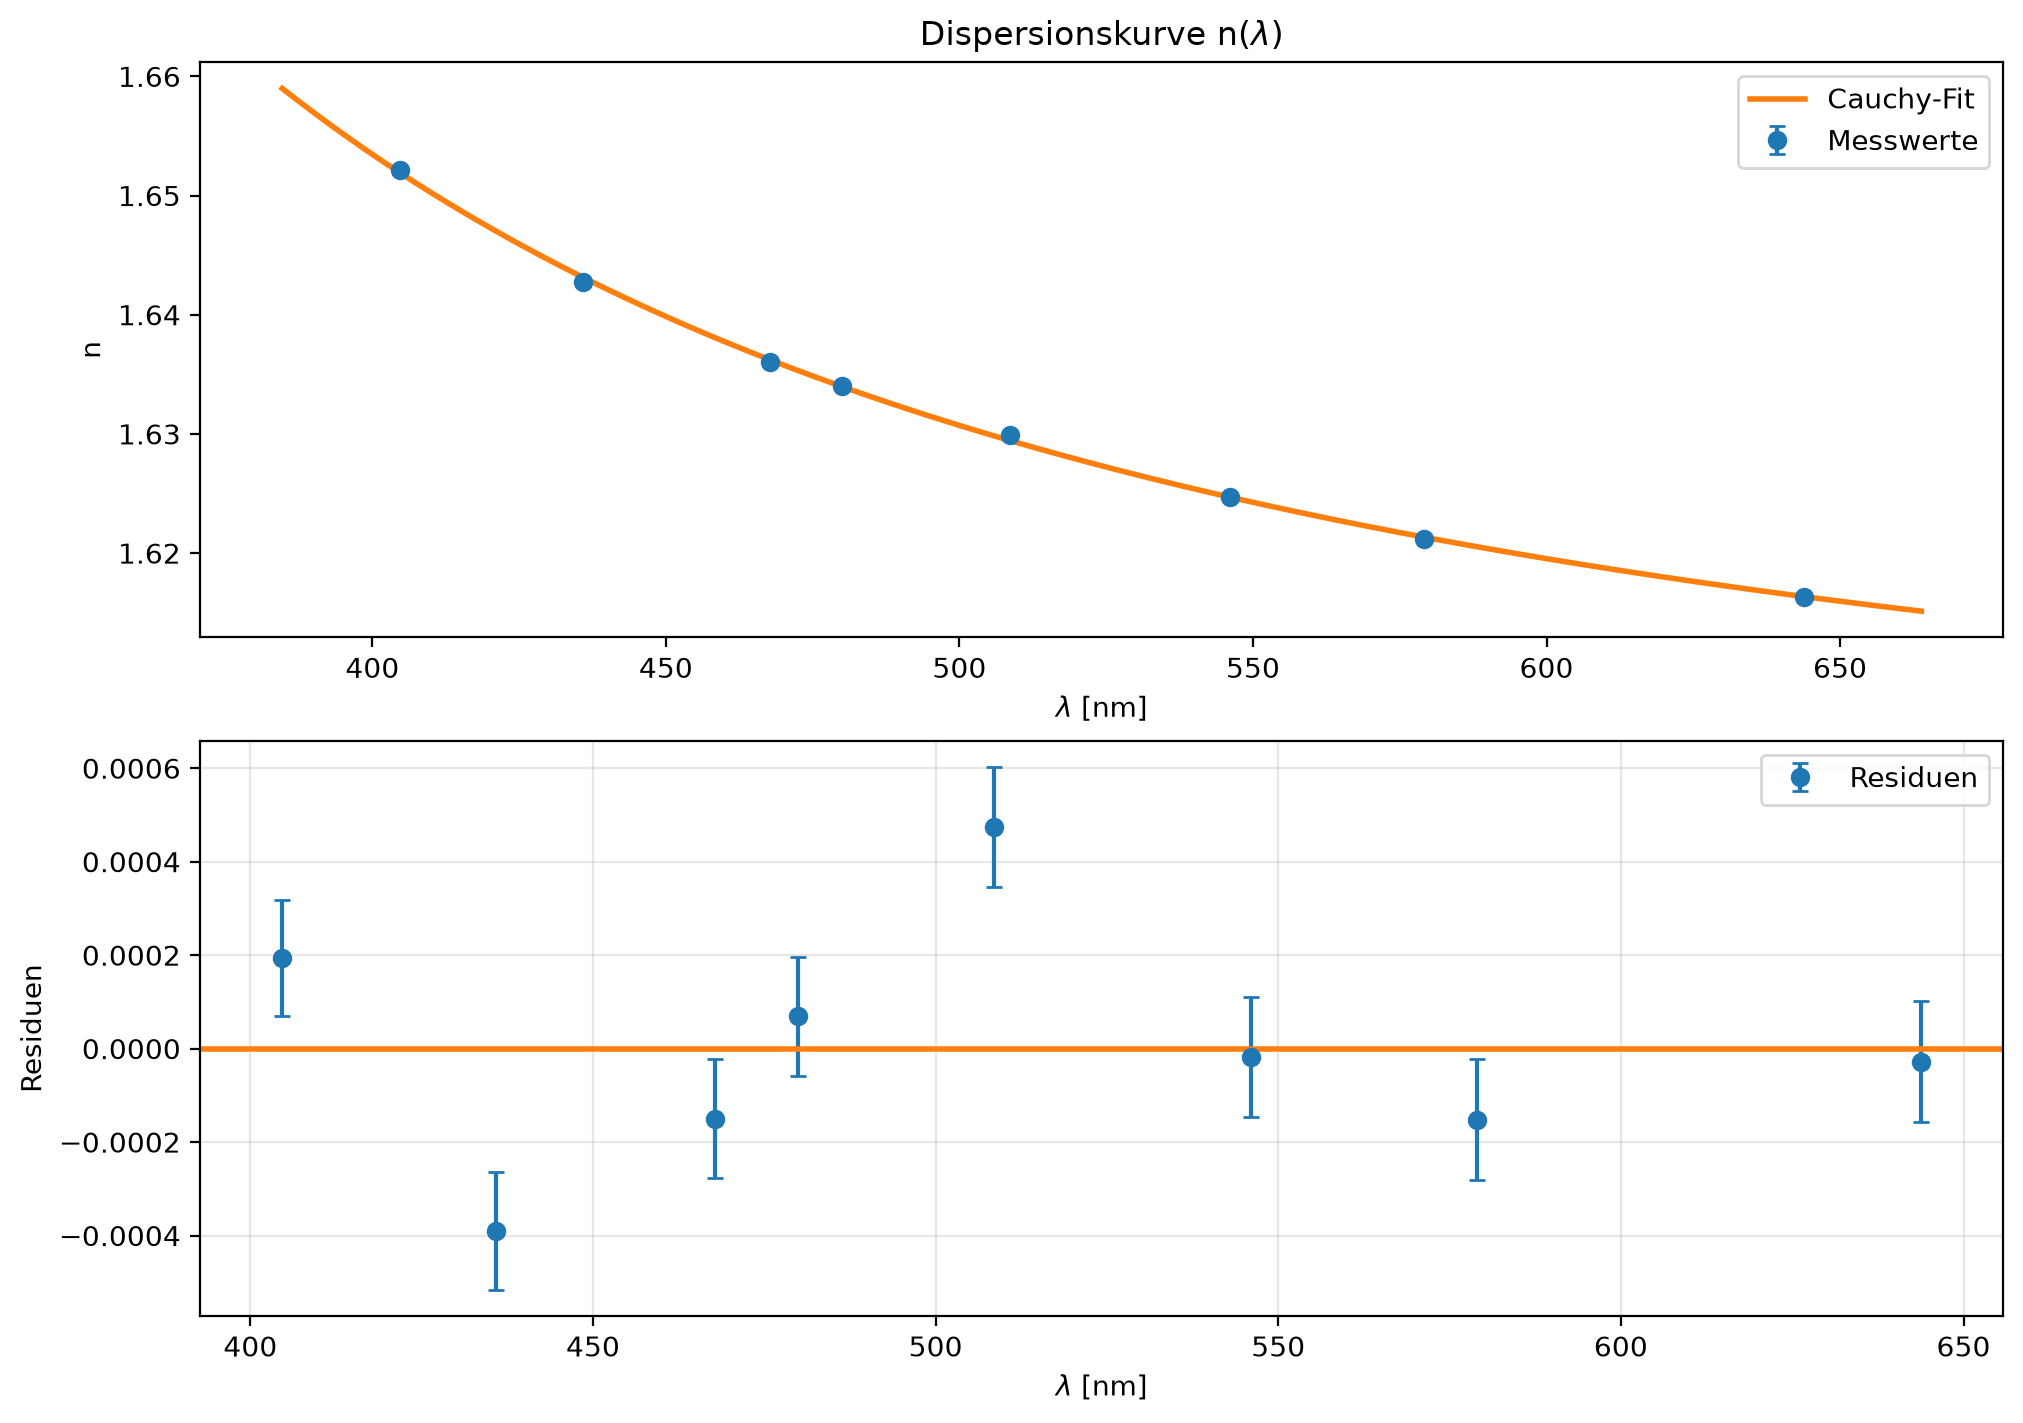
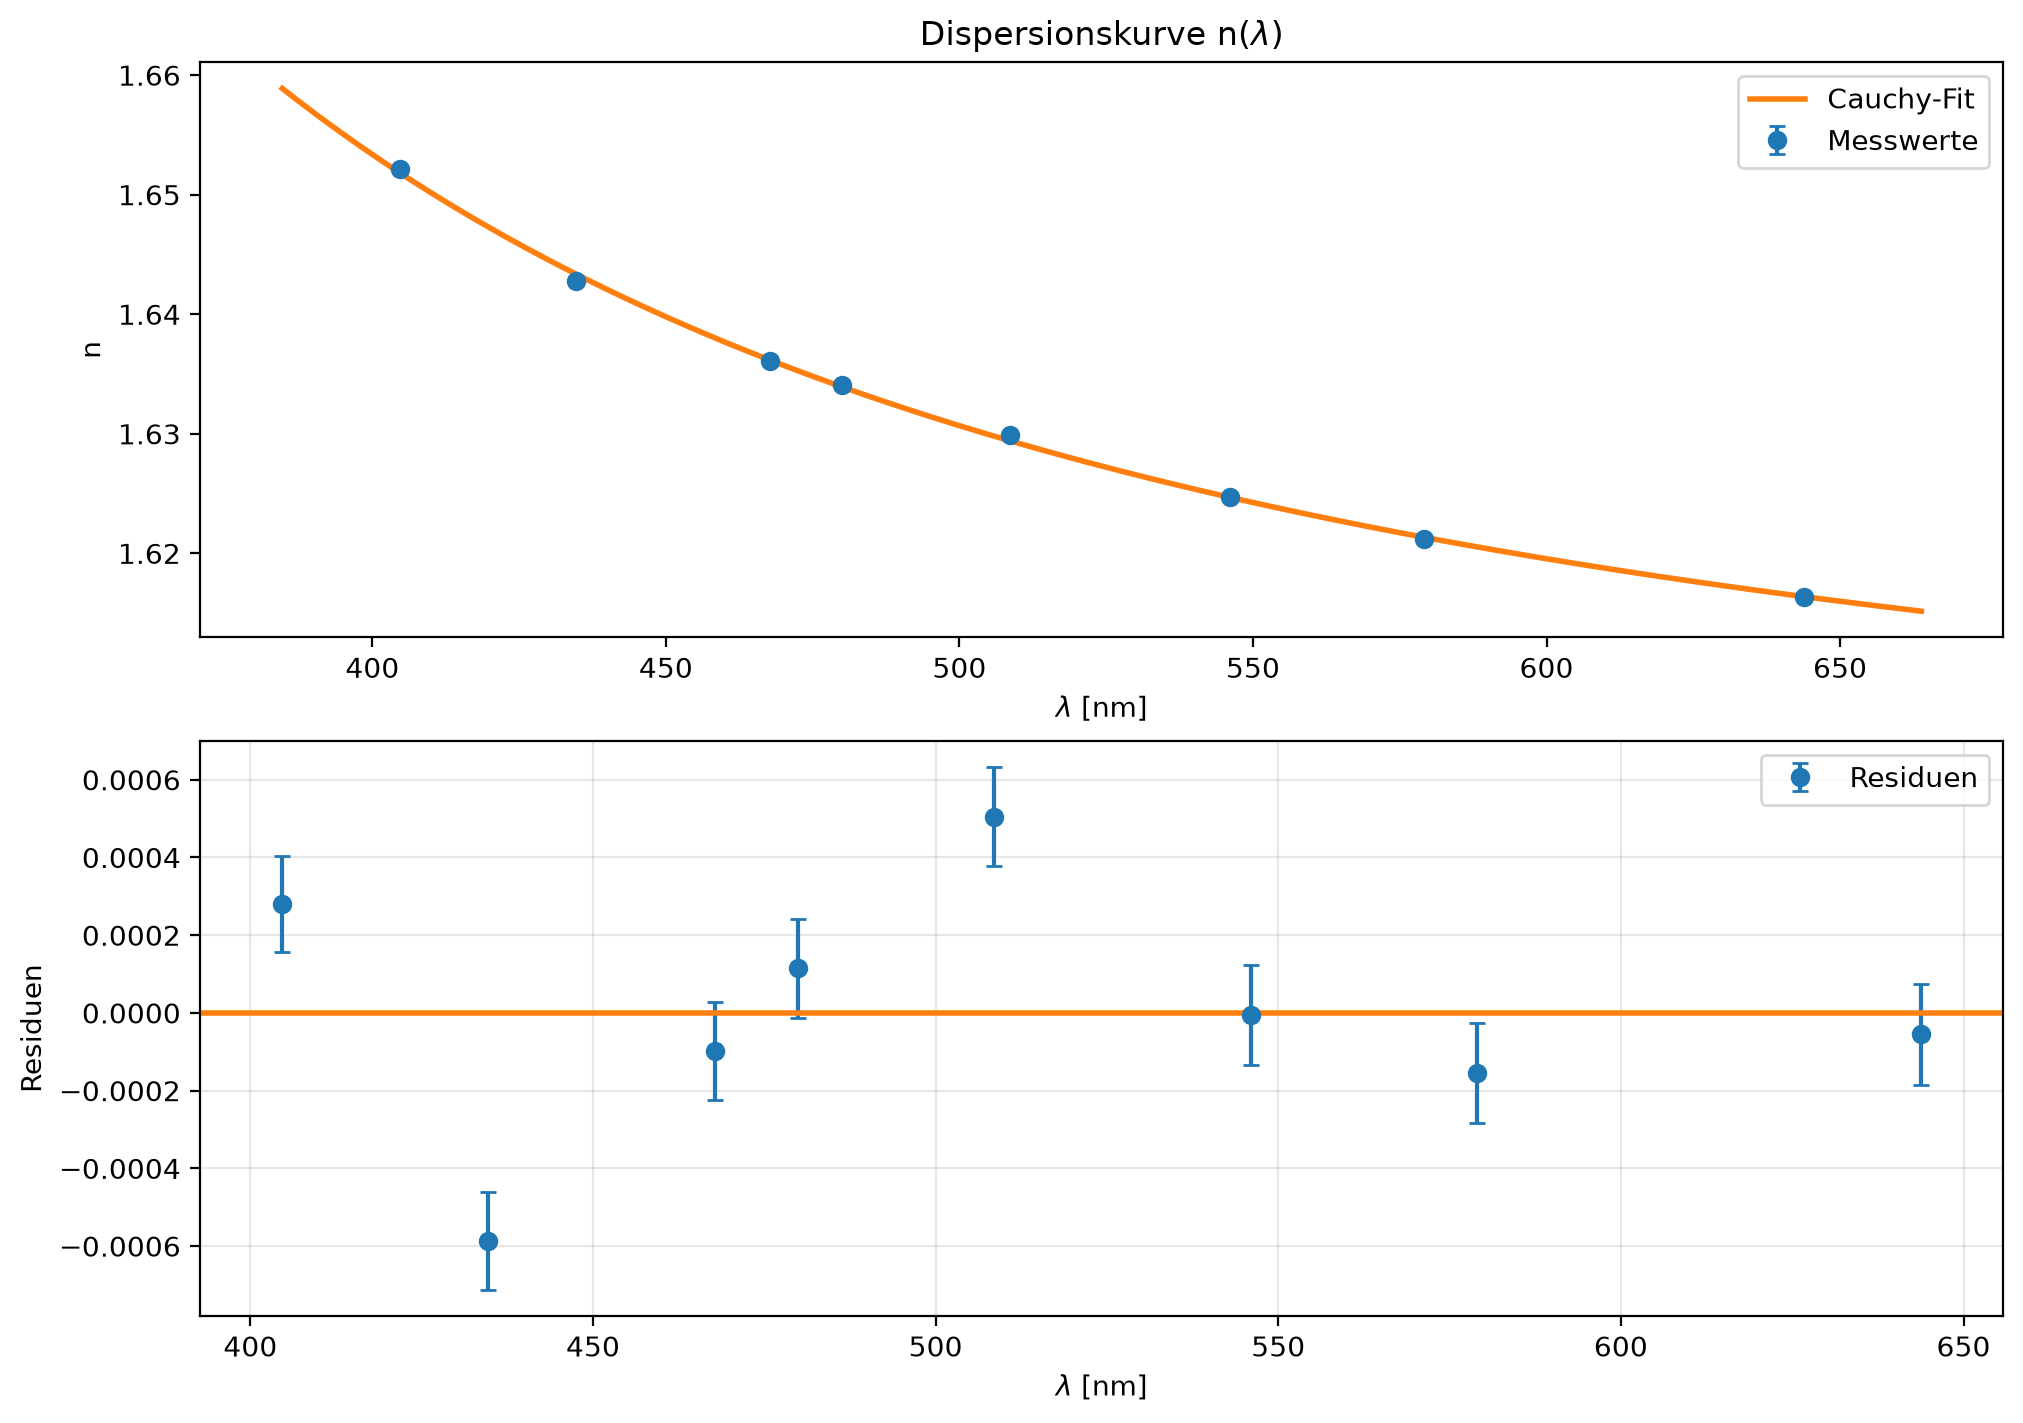
bogenminuten schritte bei rauschmessung

diff --git a/V5_Optik1/Leon/auswertung_leon.py b/V5_Optik1/Leon/auswertung_leon.py
@@ -27,7 +27,7 @@ Lambda_Linien       ={
     'grün'      : 508.58,
     'hellblau1'  : 479.99,
     'hellblau2': 467.81,
-    'lila'      : 435.83,
+    'lila'      : 434.75,
     'dunkellila': 404.66
 
     }
@@ -39,8 +39,12 @@ Noise_Leon      = [grad_bogenminuten_dezimal(g,b) for g, b in Data_Noise_Leon]
 Noise_Valentin = np.array(Noise_Valentin)
 Noise_Leon = np.array(Noise_Leon)
 
-def rauschmessung (DATA, bins=25,dateiname ='Rauschmessung', Name ='Person'):
+def rauschmessung (DATA,dateiname ='Rauschmessung', Name ='Person'):
     mean, std = analyse.mittelwert_stdabw(DATA)
+
+    bin_width = 1/60  # 1 Bogenminute in Grad = maximale Schrittweite der Ablesung
+    bins = np.arange(DATA.min() - bin_width/2, DATA.max() + 1.5*bin_width, bin_width)
+
     fig, ax = plt.subplots()
     ax.hist(DATA, label='Histogram der Rauschmessung', bins=bins)
     ax.axvline(mean, color='tab:red',ls='--', label=f'Mittelwert = {mean:.4f}')
